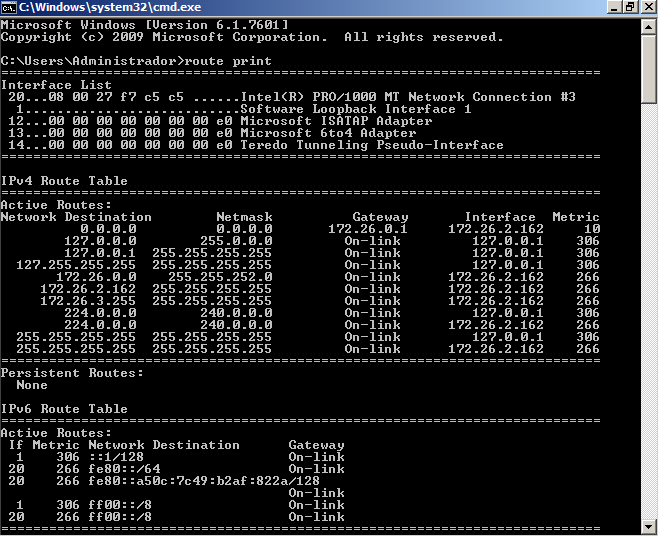
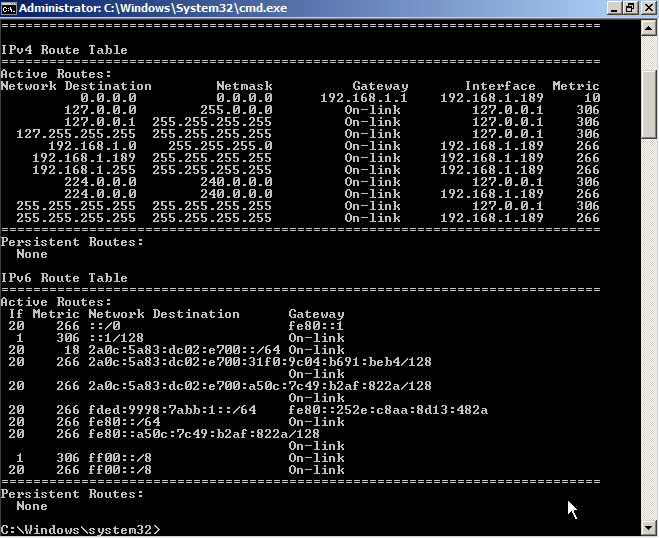
Subida imagenes

Changed region(s): [[0.0, 0.0, 1.0, 1.0], [0.8511, 0.9236, 0.8815, 0.9832]]

diff --git a/codelab.md b/codelab.md
@@ -145,6 +145,71 @@ Aquí adjunto un enlace al documento de texto:
 | :---- | :---- |
 | Nombre del perito | Álvaro Caro Fernández |
 
+
+<br>
+
+
+## Tabla de caché ARP
+### Descripción
+La caché ARP (Address Resolution Protocol) es una tabla que almacena temporalmente las asociaciones entre las direcciones IP y las direcciones MAC en una red local. Este almacenamiento permite a los dispositivos en una red localizar rápidamente otros dispositivos dentro de la misma subred, lo que agiliza la comunicación.
+
+Para obtener detalles de la tabla de cache ARP usaré el comando:
+
+```bash
+arp -a
+```
+
+
+### Captura de la evidencia
+El comando nos genera lo siguiente:
+
+![arp-1](/img/route-print.png)
+
+Aquí adjunto un enlace al documento de texto:
+
+[Enlace a documento de texto de la adquisición](https://drive.google.com/file/d/1NtS4rU002crAAefDoJwkhFxgkmgiM8Fi/view?usp=drive_link)
+
+
+<br>
+
+### Acta de adquisición forense
+
+| Número de caso | 01 | Fecha | 13/11/2024 |
+| :---- | :---- | :---- | :---- |
+| **Hora de inicio** | 10:37 | **Lugar** | Departamento IT |
+| **Investigador responsable** | Álvaro Caro Fernández |  |  |
+
+**1.- Identificación del dispositivo**
+
+| Tipo de dispositivo | Máquina comprometida departamento IT |
+| :---- | :---- |
+
+**2.- Método de adquisición**
+
+| Herramienta utilizada | route print |
+| :---- | :---- |
+| **Tipo de adquisición** | Obtener información tabla de enrutamiento |
+
+**3.- Detalles de la evidencia adquirida**
+
+| Nombre del archivo | routeprint.txt |
+| :---- | :---- |
+| **Tamaño del archivo** | 3 KB |
+
+**4.- Hash de la evidencia**
+
+| Algoritmo | MD5 |
+| :---- | :---- |
+| **Valor** | 78c3648c94e7c07b8db3baee237de21c |
+| **Algoritmo** | **SHA-1** |
+| **Valor** | d9ff7f3d8f71716382f664916ecaceace588a3b5 |
+
+**5.- Observaciones**
+
+| Hora de finalización | 10:38 |
+| :---- | :---- |
+| Nombre del perito | Álvaro Caro Fernández |
+
 <br>
 
 ## Disco duro
